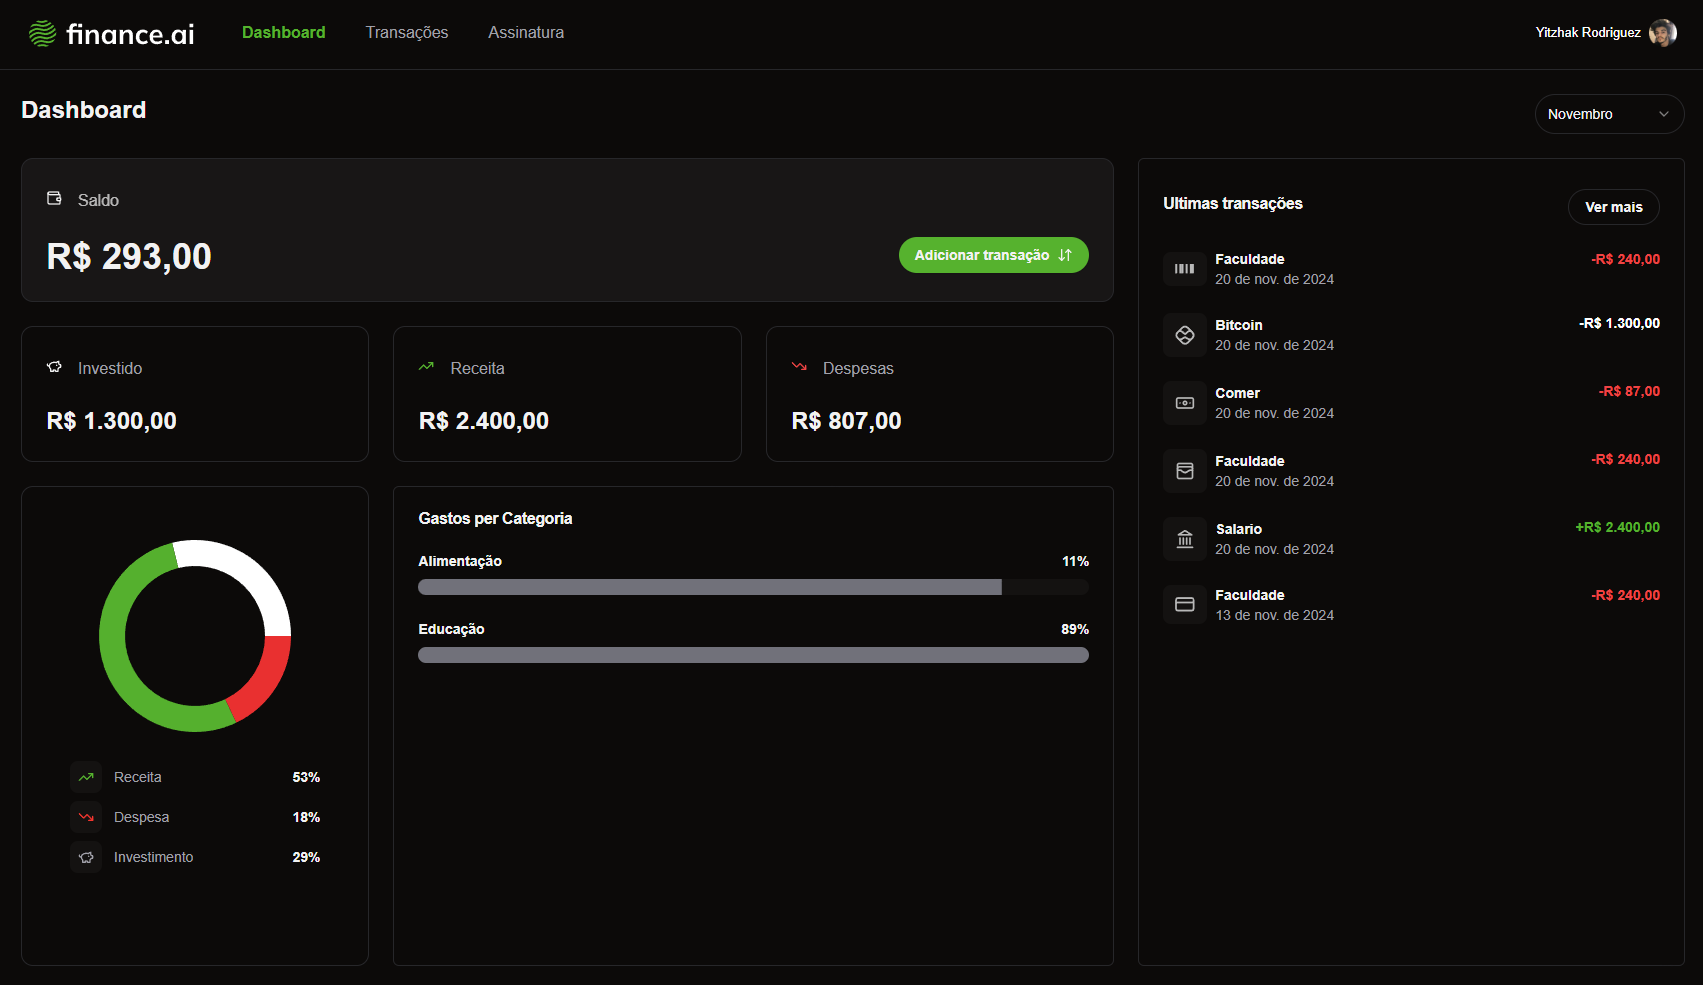
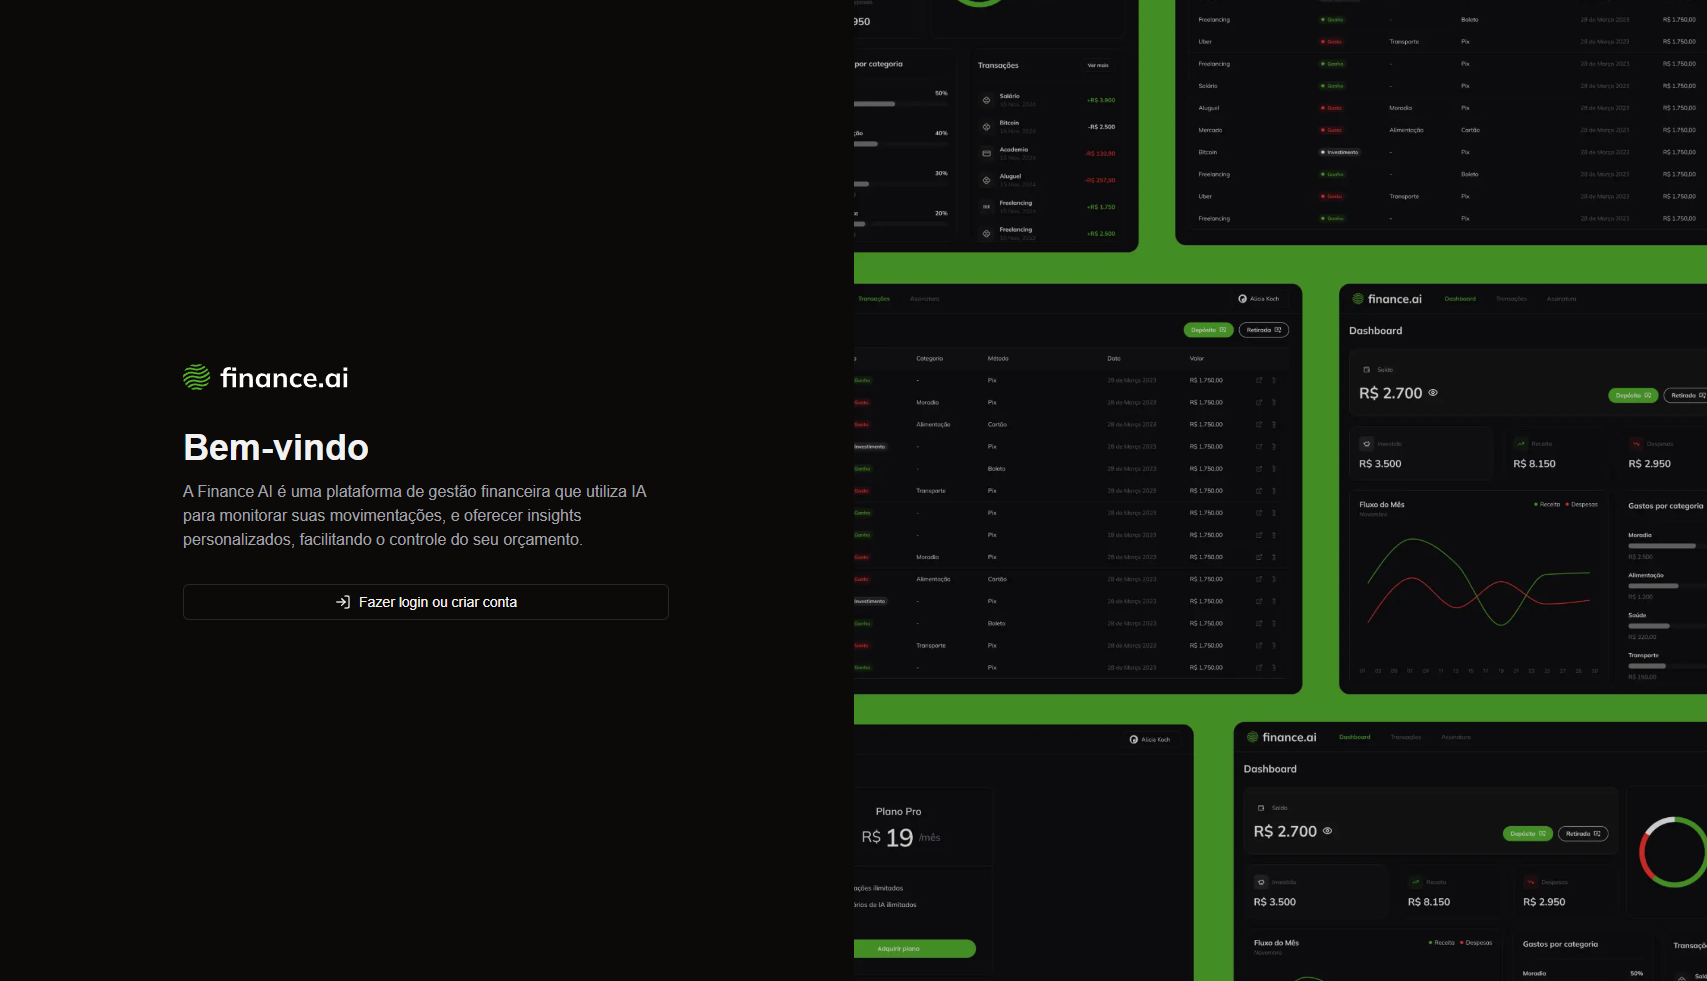
feat: add framer-motion for animations, update project images handling, and enhance project data structure

diff --git a/src/static/projects-data.ts b/src/static/projects-data.ts
@@ -1,47 +1,96 @@
-
 interface ProjectData {
   name: string;
   description: string;
   descriptionPT: string;
-  image: string;
+  image: string | string[];
   url: string;
-  mobile?: boolean
+  mobile?: boolean;
+  job?: boolean;
 }
 
 export const projectsData: ProjectData[] = [
   {
+    name: "Restaurante Deck Lounge - Landing Page",
+    description:
+      "This project is a Freelance, where i built a landing page for a restaurant, built with Next.js and Tailwind CSS.",
+    descriptionPT:
+      "Esse projeto é um Freelancer, onde desenvolvi uma landing page para um restaurante, construída com Next.js e Tailwind CSS.",
+    image: ["/projects/decklounge.png", "/projects/decklounge_1.png", "/projects/decklounge_2.png"],
+    url: "https://restaurante-deck-lounge.vercel.app/",
+    job: true,
+  },
+  {
+    name: "Restaurante Deck Lounge - Cardápio",
+    description:
+      "This project is a Freelance, where i built a menu page for the restaurant, built with Vite and Tailwind CSS.",
+    descriptionPT:
+      "Esse projeto é um Freelancer, onde desenvolvi um cardápio para o restaurante, construída com Vite e Tailwind CSS.",
+    image: ["/projects/cardapio.png", "/projects/cardapio_2.png"],
+    url: "https://restaurantedecklounge.vercel.app/cardapio",
+    job: true,
+  },
+   {
+    name: "Grafica Art Impressa - Landing Page",
+    description:
+      "This project is a Freelance, where i built a landing page for a graphic design company, built with Wordpress.",
+    descriptionPT:
+      "Esse projeto é um Freelancer, onde desenvolvi uma landing page para uma grafica, construída com Wordpress",
+    image: ["/projects/artimpressa.png"],
+    url: "https://graficaartimpressa.com.br/",
+    job: true,
+  },
+  {
+    name: "Supplify - SAAS",
+    description:
+      "Supplify is a platform that allows you to create and manage your inventory, giving you full control over the entries and exits of your stock.",
+    descriptionPT:
+      "Supplify é uma plataforma que permite aos usuários criar e gerenciar seu próprio inventário, controle total das entradas e saidas de seu estoque",
+    image: "/projects/supplify.png",
+    url: "https://github.com/WDYitz/supplify",
+  },
+  {
     name: "Finance AI",
-    description: "Finance AI is a financial management platform that uses AI to monitor your transactions and provide personalized insights, making it easier to control your budget.",
-    descriptionPT: "A Finance AI é uma plataforma de gestão financeira que utiliza IA para monitorar suas movimentações, e oferecer insights personalizados, facilitando o controle do seu orçamento.",
+    description:
+      "Finance AI is a financial management platform that uses AI to monitor your transactions and provide personalized insights, making it easier to control your budget.",
+    descriptionPT:
+      "A Finance AI é uma plataforma de gestão financeira que utiliza IA para monitorar suas movimentações, e oferecer insights personalizados, facilitando o controle do seu orçamento.",
     image: "/projects/finance_ai.png",
-    url: "https://github.com/WDYitz/finance-ai"
+    url: "https://github.com/WDYitz/finance-ai",
   },
   {
     name: "Neutral Commerce",
-    description: "Neutral Commerce is a platform that sells eletronics and gadgets.",
+    description:
+      "Neutral Commerce is a platform that sells eletronics and gadgets.",
     image: "/projects/default_image.png",
-    descriptionPT: "A Neutral Commerce é uma plataforma que vende eletrônicos e aparatos eletronicos.",
+    descriptionPT:
+      "A Neutral Commerce é uma plataforma que vende eletrônicos e aparatos eletronicos.",
     url: "https://neutral-e-commerce.vercel.app/",
     mobile: true,
   },
   {
     name: "New Santos Food",
-    description: "New Santos Food is a functional ifood clone that allows you to order food from your favorite restaurants.",
-    descriptionPT: "A New Santos Food é um clone funcional do ifood que permite pedir comida de seus restaurantes favoritos (Todos os produtos são ficticios).",
-    image: "/projects/default_image.png",
+    description:
+      "New Santos Food is a functional ifood clone that allows you to order food from your favorite restaurants.",
+    descriptionPT:
+      "A New Santos Food é um clone funcional do ifood que permite pedir comida de seus restaurantes favoritos (Todos os produtos são ficticios).",
+    image: "/projects/nsf.png",
     url: "https://new-santos-food.vercel.app/",
   },
   {
     name: "Twitter Clone API",
-    description: "This project is a Twitter clone API that allows you to create, read, update and delete tweets, create new tags and follow users, comment on tweets and like them, Using Clean Architecture principles and SOLID design patterns.",
-    descriptionPT: "Esse projeto é uma API clone do Twitter que permite criar, ler, atualizar e deletar tweets, criar novas tags e seguir usuários, comentar em tweets e curtir, utilizando princípios de Arquitetura Limpa e padrões de design SOLID.",
+    description:
+      "This project is a Twitter clone API that allows you to create, read, update and delete tweets, create new tags and follow users, comment on tweets and like them, Using Clean Architecture principles and SOLID design patterns.",
+    descriptionPT:
+      "Esse projeto é uma API clone do Twitter que permite criar, ler, atualizar e deletar tweets, criar novas tags e seguir usuários, comentar em tweets e curtir, utilizando princípios de Arquitetura Limpa e padrões de design SOLID.",
     image: "/projects/default_image.png",
     url: "https://github.com/WDYitz/twitter-clone-api",
   },
   {
     name: "Entity Framework Setup",
-    description: "This project is a simple setup of Entity Framework Core with a SQL Server database.",
-    descriptionPT: "Esse projeto é um setup simples do Entity Framework Core com um banco de dados SQL Server.",
+    description:
+      "This project is a simple setup of Entity Framework Core with a SQL Server database.",
+    descriptionPT:
+      "Esse projeto é um setup simples do Entity Framework Core com um banco de dados SQL Server.",
     image: "/projects/default_image.png",
     url: "https://github.com/WDYitz/EntityFrameworkSetup",
   },
@@ -54,8 +103,10 @@ export const projectsData: ProjectData[] = [
   },
   {
     name: "Event Manager",
-    description: "This project is a simple event manager that allows you to create, read, update and delete events and create 'Attendees' for these events.",
-    descriptionPT: "Um gerenciador de eventos que permite criar, ler, atualizar e deletar eventos e criar 'Participantes' para esses eventos.",
+    description:
+      "This project is a simple event manager that allows you to create, read, update and delete events and create 'Attendees' for these events.",
+    descriptionPT:
+      "Um gerenciador de eventos que permite criar, ler, atualizar e deletar eventos e criar 'Participantes' para esses eventos.",
     image: "/projects/default_image.png",
     url: "https://github.com/WDYitz/gerenciar-eventos",
   },
@@ -68,9 +119,11 @@ export const projectsData: ProjectData[] = [
   },
   {
     name: "Next Authentication",
-    description: "This project is a simple authentication system using Next Auth.",
-    descriptionPT: "Esse projeto é um sistema de autenticação simples utilizando Next Auth.",
+    description:
+      "This project is a simple authentication system using Next Auth.",
+    descriptionPT:
+      "Esse projeto é um sistema de autenticação simples utilizando Next Auth.",
     image: "/projects/default_image.png",
     url: "https://github.com/WDYitz/next-authentication",
-  }
-]
+  },
+];

diff --git a/src/app/[locale]/(main)/_components/timeline.tsx b/src/app/[locale]/(main)/_components/timeline.tsx
@@ -9,14 +9,14 @@ import {
   TimelineSeparator,
   TimelineTitle,
 } from "@/components/ui/timeline";
-import { useLayoutEffect, useRef } from "react";
+import { motion } from "motion/react";
 import { useTranslation } from "react-i18next";
-import { useWindowScroll } from "react-use";
+import { } from "react-use";
+const MotionTimelineItem = motion(TimelineItem);
+const MotionTimelineDate = motion(TimelineDate);
 
 export default function TimeLine() {
-  const timelineRefs = useRef<HTMLDivElement[]>([]);
-  const { y } = useWindowScroll()
-  const { t } = useTranslation()
+  const { t } = useTranslation();
 
   const items = [
     {
@@ -51,39 +51,47 @@ export default function TimeLine() {
     },
   ]
 
-  useLayoutEffect(() => {
-    if (y >= 200) {
-      timelineRefs.current.forEach((element, index) => {
-        setTimeout(() => {
-          element?.classList.add("motion-preset-slide-right", "opacity-100")
-        }, 150 * index);
-      })
-    }
-  }, [y])
+  const timelineAnimation = {
+    initial: { opacity: 0, x: -50 },
+    animate: { opacity: 1, x: 0 },
+    transition: {
+      delay: 0.2,
+      type: "spring" as const,
+      stiffness: 100,
+      duration: 0.3,
+    },
+  }
 
   return (
-    <Timeline defaultValue={3} className="gap-3 px-3 md:p-10 lg:p-20 xl:px-40 2xl:px-80 md:flex md:space-y-0 md:gap-8 overflow-hidden">
-      {items.map((item) => (
-        <TimelineItem
-          key={item.id}
-          step={item.id}
-          ref={(el) => {
-            if (el) timelineRefs.current[item.id - 1] = el;
-          }}
-          className="group-data-[orientation=vertical]/timeline:sm:ms-32 opacity-0"
-        >
-          <TimelineHeader>
-            <TimelineSeparator />
-            <TimelineDate className="group-data-[orientation=vertical]/timeline:sm:absolute group-data-[orientation=vertical]/timeline:sm:-left-32 group-data-[orientation=vertical]/timeline:2xl:-left-52 group-data-[orientation=vertical]/timeline:sm:w-20 
-            group-data-[orientation=vertical]/timeline:2xl:w-40 group-data-[orientation=vertical]/timeline:sm:text-right">
-              {item.date}
-            </TimelineDate>
-            <TimelineTitle className="sm:-mt-0.5">{item.title}</TimelineTitle>
-            <TimelineIndicator />
-          </TimelineHeader>
-          <TimelineContent>{item.description}</TimelineContent>
-        </TimelineItem>
-      ))}
+    <Timeline defaultValue={1} className="gap-3 px-3 md:p-10 lg:p-20 xl:px-40 2xl:px-80 md:flex md:space-y-0 md:gap-8 overflow-hidden">
+      {items.map((item) => {
+        return (
+          <MotionTimelineItem
+            key={item.id}
+            step={item.id}
+            initial={timelineAnimation.initial}
+            animate={timelineAnimation.animate}
+            transition={{
+              ...timelineAnimation.transition,
+              delay: timelineAnimation.transition.delay * item.id + 1,
+            }}
+            className="group-data-[orientation=vertical]/timeline:sm:ms-32 opacity-0"
+          >
+            <TimelineHeader>
+              <TimelineSeparator />
+              <MotionTimelineDate className="group-data-[orientation=vertical]/timeline:sm:absolute group-data-[orientation=vertical]/timeline:sm:-left-32 group-data-[orientation=vertical]/timeline:2xl:-left-52 group-data-[orientation=vertical]/timeline:sm:w-20
+              group-data-[orientation=vertical]/timeline:2xl:w-40 group-data-[orientation=vertical]/timeline:sm:text-right w-0 overflow-hidden"
+                {...timelineAnimation}
+              >
+                {item.date}
+              </MotionTimelineDate>
+              <TimelineTitle className="sm:-mt-0.5">{item.title}</TimelineTitle>
+              <TimelineIndicator />
+            </TimelineHeader>
+            <TimelineContent>{item.description}</TimelineContent>
+          </MotionTimelineItem>
+        )
+      })}
     </Timeline>
   )
 }

diff --git a/src/app/[locale]/projects/_components/project-card.tsx b/src/app/[locale]/projects/_components/project-card.tsx
@@ -11,7 +11,7 @@ interface ProjectCardProps {
   title: string;
   description: string;
   url: string
-  image?: string
+  image?: string | string[]
   isMobile?: boolean
 }
 
@@ -20,6 +20,9 @@ const ProjectCard = forwardRef(function ProjectCardRef(props: ProjectCardProps, 
     <Card ref={ref}>
       <CardContent className="md:flex h-full">
         <div className="space-y-4 pt-6 flex flex-col justify-between">
+          <div className="relative w-full h-48 md:h-60 lg:h-72 xl:h-80">
+            <Image src={Array.isArray(props.image) ? props.image[0] ?? "" : props.image ?? ""} alt={props.title} fill priority className="object-cover rounded-md" />
+          </div>
           <CardTitle>{props.title}</CardTitle>
           <p>{props.description}</p>
           <div className="flex space-x-4">
@@ -42,8 +45,16 @@ const ProjectCard = forwardRef(function ProjectCardRef(props: ProjectCardProps, 
                   <p className="text-sm w-28 mr-4">Use your fingers to zoom in</p>
                   <Image src="/projects/zoom_in.png" alt="zoom in" width={70} height={100} className="bg-white rounded-full p-4" />
                 </div>
-                <div className={`relative w-[1200px] h-[250px] max-h-[400px] md:w-[500px] md:min-h-[290px] lg:w-[1200px] lg:min-h-[700px] ${props.isMobile ? "pt-20 md:rotate-0 w-[300px] h-full" : "rotate-90"} md:rotate-0 flex justify-center`}>
-                  <Image src={props.image ?? ""} alt={props.title} fill priority />
+                <div className={`relative w-[1200px] h-[250px] max-h-[400px] md:w-[500px] md:min-h-[290px] lg:w-[1200px] lg:min-h-[700px] overflow-y-auto ${props.isMobile ? "pt-20 md:rotate-0 w-[300px] h-full" : "rotate-90"} md:rotate-0 flex justify-center`}>
+                  {
+                    Array.isArray(props.image) ? (
+                      props.image.map((img, index) => (
+                        <Image key={index} src={img} alt={props.title} fill priority className="object-cover" />
+                      ))
+                    ) : (
+                      <Image src={props.image ?? ""} alt={props.title} fill priority className="object-cover" />
+                    )
+                  }
                 </div>
               </DialogContent>
             </Dialog>

diff --git a/src/app/[locale]/projects/_components/projects.tsx b/src/app/[locale]/projects/_components/projects.tsx
@@ -30,10 +30,10 @@ const Projects = () => {
     <main className="pb-6 flex flex-col items-start space-y-6 pt-16 px-5 sm:flex sm:justify-between md:gap-8 md:p-10 lg:p-20 lg:pt-28 xl:px-40 2xl:px-80 2xl:pt-80 h-full overflow-hidden">
       <div className="space-y-8">
         <AlertCard ref={alertCardRef} />
-        <p className="text-4xl opacity-0" ref={titleRef}>{t("title")}</p>
+        <p className="text-4xl">Freelance</p>
         <div className="w-full lg:grid lg:grid-cols-2 lg:space-y-0 md:gap-4 space-y-6 xl:grid xl:grid-cols-2 xl:gap-6 xl:space-y-0 ">
           {
-            projectsData.map((project, index) => (
+            projectsData.filter((project) => project.job).map((project, index) => (
               <ProjectCard
                 key={index}
                 ref={el => {
@@ -42,7 +42,25 @@ const Projects = () => {
                 title={project.name}
                 description={params.locale === "pt" ? project.descriptionPT : project.description}
                 url={project.url}
-                image={project?.image}
+                image={Array.isArray(project?.image) ? project.image[0] : project?.image}
+                isMobile={project?.mobile}
+              />
+            ))
+          }
+        </div>
+        <p className="text-4xl opacity-0" ref={titleRef}>{t("title")}</p>
+        <div className="w-full lg:grid lg:grid-cols-2 lg:space-y-0 md:gap-4 space-y-6 xl:grid xl:grid-cols-2 xl:gap-6 xl:space-y-0 ">
+          {
+            projectsData.filter((project) => !project.job).map((project, index) => (
+              <ProjectCard
+                key={index}
+                ref={el => {
+                  if (el) cardsRef.current.push(el);
+                }}
+                title={project.name}
+                description={params.locale === "pt" ? project.descriptionPT : project.description}
+                url={project.url}
+                image={Array.isArray(project?.image) ? project.image[0] : project?.image}
                 isMobile={project?.mobile}
               />
             ))

diff --git a/src/components/ui/timeline.tsx b/src/components/ui/timeline.tsx
@@ -1,8 +1,8 @@
 /* eslint-disable @typescript-eslint/no-unused-vars */
 "use client"
 
-import * as React from "react"
 import { Slot } from "@radix-ui/react-slot"
+import * as React from "react"
 
 import { cn } from "@/lib/utils"
 
@@ -205,6 +205,7 @@ function TimelineTitle({
   )
 }
 
+
 export {
   Timeline,
   TimelineContent,
@@ -213,5 +214,6 @@ export {
   TimelineIndicator,
   TimelineItem,
   TimelineSeparator,
-  TimelineTitle,
+  TimelineTitle
 }
+
